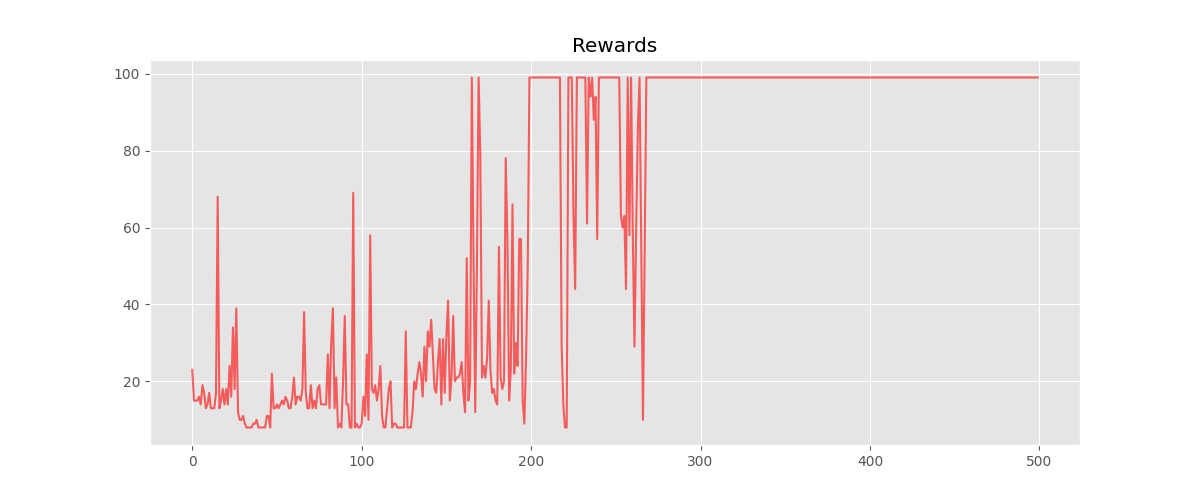
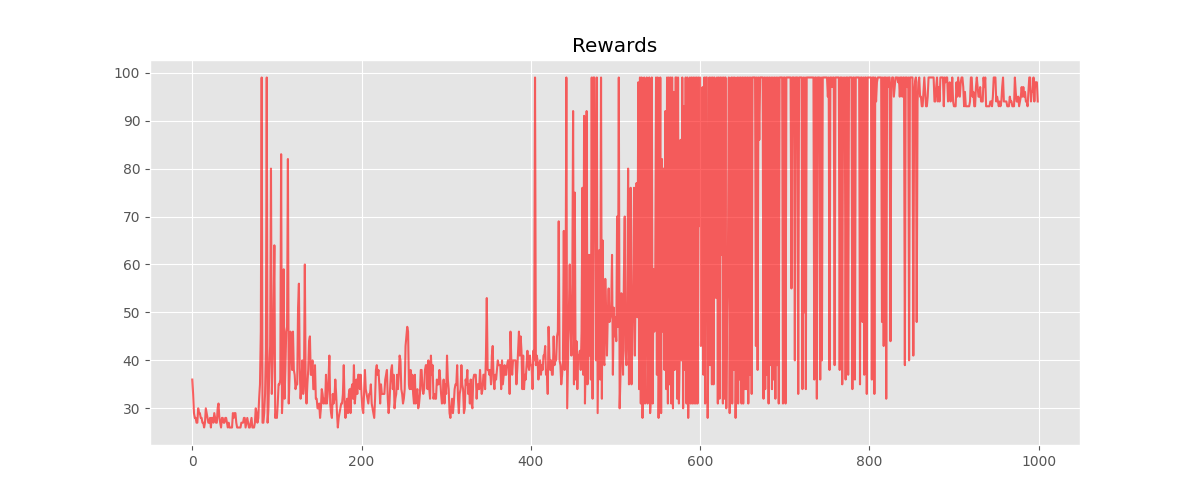
gif

diff --git a/final_robot.py b/final_robot.py
@@ -3,8 +3,7 @@
 # PIBIC 2D DQN
 # Coded by Enzo Frese
 #
-import os
-os.environ['MPLCONFIGDIR'] = os.getcwd() + '/configs/'
+
 # Imports
 import torch
 import torch.nn as nn
@@ -20,7 +19,8 @@ import os.path
 import cv2
 import time
 import smbus
-
+import os
+os.environ['MPLCONFIGDIR'] = os.getcwd() + '/configs/'
 
 bus = smbus.SMBus(1)
 #Image Rec
@@ -31,11 +31,11 @@ arm_angle = 0
 last_angle = 0
 #Image rec
 
+# Arm I2C function
 def Arm_serial_servo_write(id, angle, time):
-    if id == 2 or id == 3 or id == 4:  # 与实际相反角度
+    if id == 2 or id == 3 or id == 4:  
         angle = 180 - angle
         pos = int((3100 - 900) * (angle - 0) / (180 - 0) + 900)
-        # pos = ((pos << 8) & 0xff00) | ((pos >> 8) & 0xff)
         value_H = (pos >> 8) & 0xFF
         value_L = pos & 0xFF
         time_H = (time >> 8) & 0xFF
@@ -46,7 +46,6 @@ def Arm_serial_servo_write(id, angle, time):
             print('Arm_serial_servo_write I2C error')
     elif id == 5:
         pos = int((3700 - 380) * (angle - 0) / (270 - 0) + 380)
-        # pos = ((pos << 8) & 0xff00) | ((pos >> 8) & 0xff)
         value_H = (pos >> 8) & 0xFF
         value_L = pos & 0xFF
         time_H = (time >> 8) & 0xFF
@@ -57,7 +56,6 @@ def Arm_serial_servo_write(id, angle, time):
             print('Arm_serial_servo_write I2C error')
     else:
         pos = int((3100 - 900) * (angle - 0) / (180 - 0) + 900)
-        # pos = ((pos << 8) & 0xff00) | ((pos >> 8) & 0xff)
         value_H = (pos >> 8) & 0xFF
         value_L = pos & 0xFF
         time_H = (time >> 8) & 0xFF
@@ -66,6 +64,7 @@ def Arm_serial_servo_write(id, angle, time):
             bus.write_i2c_block_data(0x15, 0x10 + id, [value_H, value_L, time_H, time_L])
         except:
             print('Arm_serial_servo_write I2C error')
+
 #Bring the robot to the initial position
 def robot_init():
 
@@ -287,30 +286,21 @@ solved = False
 start_time = time.time()
 
 for i_episode in range(num_episodes):
+    # Call initial functions
     env.reset()
-    #env.env.state = image_rec_start()
     state = env.reset()
-   # print(state)
-    #print(state)
     step = 0
+    # Loop begin
     while True:
-        #print("Camera Feedback vector"+str(image_rec_start()))
-        #print(state)
-        step += 1
-        frames_total += 1
-        
-        #env.render()
-       # print("obs: "+str(state))
-        #action = env.action_space.sample()
+        # Get state and angle from image recognition and encoder
         state , arm_angle = image_rec_start()
-
         action = qnet_agent.select_action(state)
         if action != None:	
             state, reward, done, info = env.step(action)
-
-        #print da ação
-        print(f"action{action}")
-        print(f"angle arm{arm_angle}")
+        # Print actions
+        print(f"Action: {action}")
+        print(f"Angle Arm: {arm_angle}")
+        # Send command to the arm
         Arm_serial_servo_write(5,arm_angle + (action -1)*15,1)
         
         

diff --git a/Env 2.0 Tester.py b/Env 2.0 Tester.py
@@ -26,20 +26,20 @@ LongTensor = torch.LongTensor
 plt.style.use('ggplot')
 
 # Saving Model Variabes
-file2save = 'vector.pth'
+file2save = 'treino_robot.pth'
 save_model_frequency = 10000
 resume_previous_training = True
 
 
 
 #Environment initial definitions
-kwargs = {'timestep': 0.05, 
-          'setpoint': 0.0,
-          'beam_length': 1.0,
-          'max_angle': 0.4, #isso é um limitante
-          'max_timesteps':None,
-          'init_velocity': 1.5,
-          'action_mode': 'discrete'} #discrete chose (keep, increase, decrease)
+kwargs = {'timestep': 0.1, # Tempo entre as ações 
+          'setpoint': 0.0, # Ponto de equilíbrio desejado
+          'beam_length': 1.0, # Tamanho da bola
+          'max_angle': 0.4, # Ângulo máximo em radianos
+          'max_timesteps':None, # None, pois não é um treinamento
+          'init_velocity': 1.0, # Velocidade inicial
+          'action_mode': 'discrete'} # Modo de ação discreto
 
 #Building the environment 
 env = gym.make('BallBeamSetpoint-v0', **kwargs)
@@ -174,41 +174,6 @@ for i_episode in range(num_episodes):
         new_state, reward, done, info = env.step(action)
         
         state = new_state
-        
-        if done:
-            steps_total.append(step)
-            
-            mean_reward_100 = sum(steps_total[-100:])/100
-            
-            if (mean_reward_100 > score_to_solve and solved == False):
-                print("SOLVED! After %i episodes " % i_episode)
-                solved_after = i_episode
-                solved = True
-            
-            if (i_episode % report_interval == 0):
-                
-                
-                
-                print("\n*** Episode %i *** \
-                      \nAv.reward: [last %i]: %.2f, [last 100]: %.2f, [all]: %.2f \
-                      \n frames_total: %i" 
-                  % 
-                  ( i_episode,
-                    report_interval,
-                    sum(steps_total[-report_interval:])/report_interval,
-                    mean_reward_100,
-                    sum(steps_total)/len(steps_total),
-                   
-                    frames_total
-                          ) 
-                  )
-                  
-                elapsed_time = time.time() - start_time
-                print("Elapsed time: ", time.strftime("%H:%M:%S", time.gmtime(elapsed_time)))
-
-
-
-            break
         
 
 print("\n\n\n\nAverage reward: %.2f" % (sum(steps_total)/num_episodes))

diff --git a/Env v2.0  training.py b/Env v2.0  training.py
@@ -26,19 +26,19 @@ LongTensor = torch.LongTensor
 plt.style.use('ggplot')
 
 # Saving Model Variabes
-file2save = 'vector.pth'
+file2save = 'new_test.pth'
 save_model_frequency = 100
 resume_previous_training = False
 
 
 
 #Environment initial definitions
-kwargs = {'timestep': 0.05, 
+kwargs = {'timestep': 0.01, 
           'setpoint': 0,
           'beam_length': 1.0,
           'max_angle': 0.4, #isso é um limitante
           'max_timesteps':100,
-          'init_velocity': 0.5,
+          'init_velocity': 1.3,
           'action_mode': 'discrete'} #discrete chose (keep, increase, decrease)
 
 #Building the environment 
@@ -58,7 +58,7 @@ random.seed(seed_value)
 training = False
 ###### PARAMS ######
 learning_rate = 0.001
-num_episodes = 500
+num_episodes = 1000
 gamma = 0.999
 
 hidden_layer = 64

diff --git a/PID_sim.py b/PID_sim.py
@@ -1,0 +1,27 @@
+import gym
+import ballbeam_gym
+import numpy as np
+# Pass env arguments as kwargs
+kwargs = {'timestep': 0.05, 
+          'setpoint': 0.0,
+          'beam_length': 1.0,
+          'max_angle': 0.4,
+          'init_velocity': 1.6,
+          'action_mode': 'continuous'}
+
+# Create env
+env = gym.make('BallBeamSetpoint-v0', **kwargs)
+
+# Constants for PID calculation
+Kp = 2.0
+Kd = 1.0
+env.reset()
+# Simulate 1000 steps
+for i in range(1000):   
+    # Control theta with a PID controller
+    env.render()
+    theta = Kp*(env.bb.x - env.setpoint) + Kd*(env.bb.v)
+    obs, reward, done, obs = env.step(theta)
+
+    if done:
+        env.reset()
